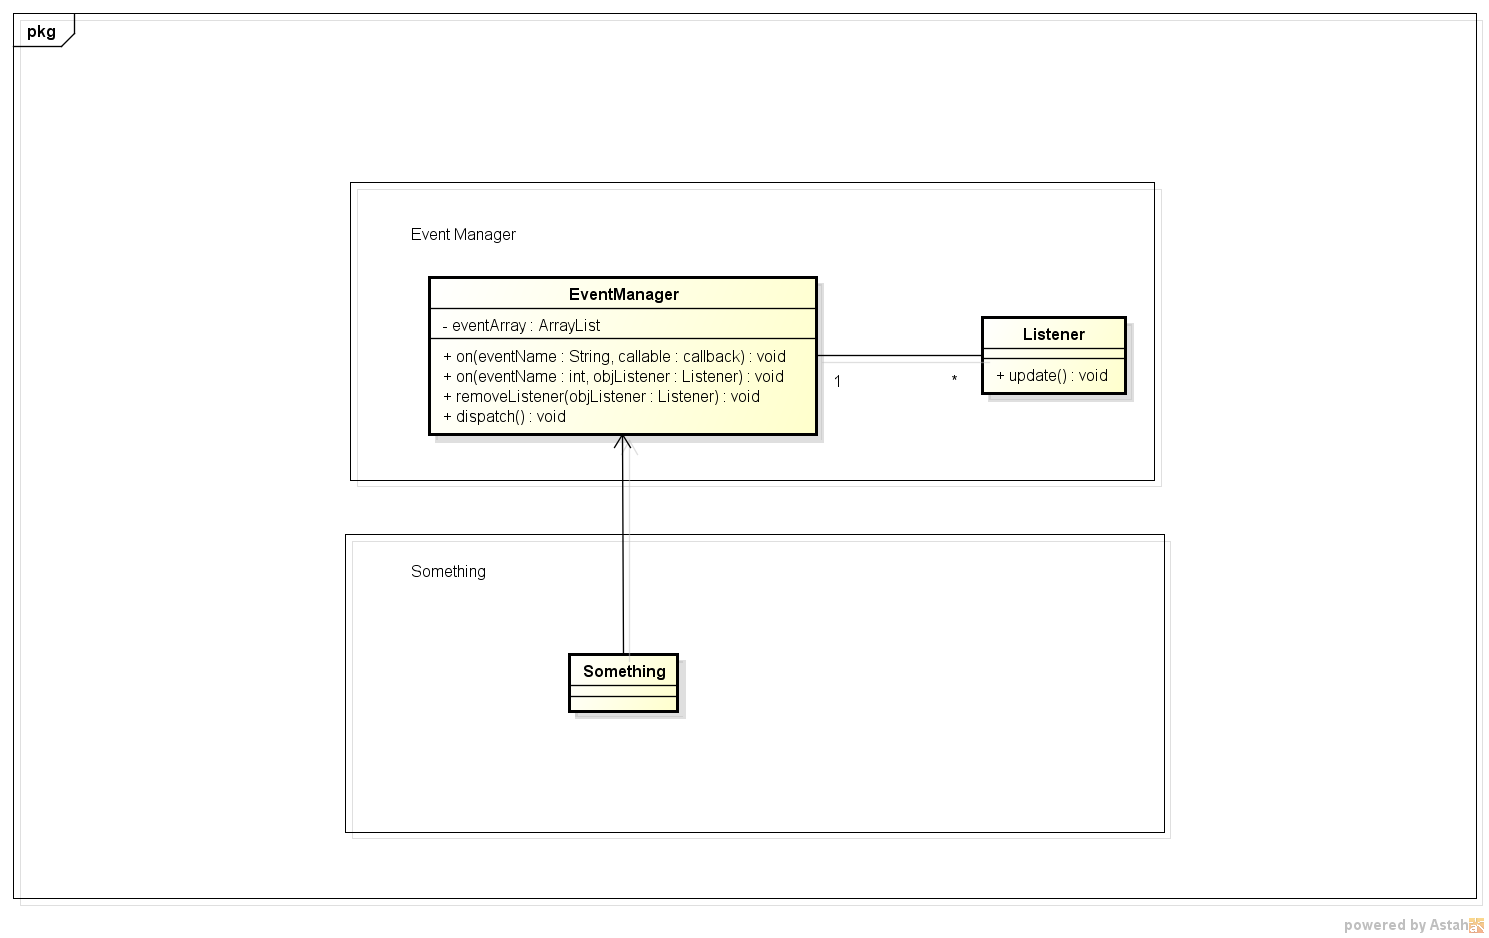
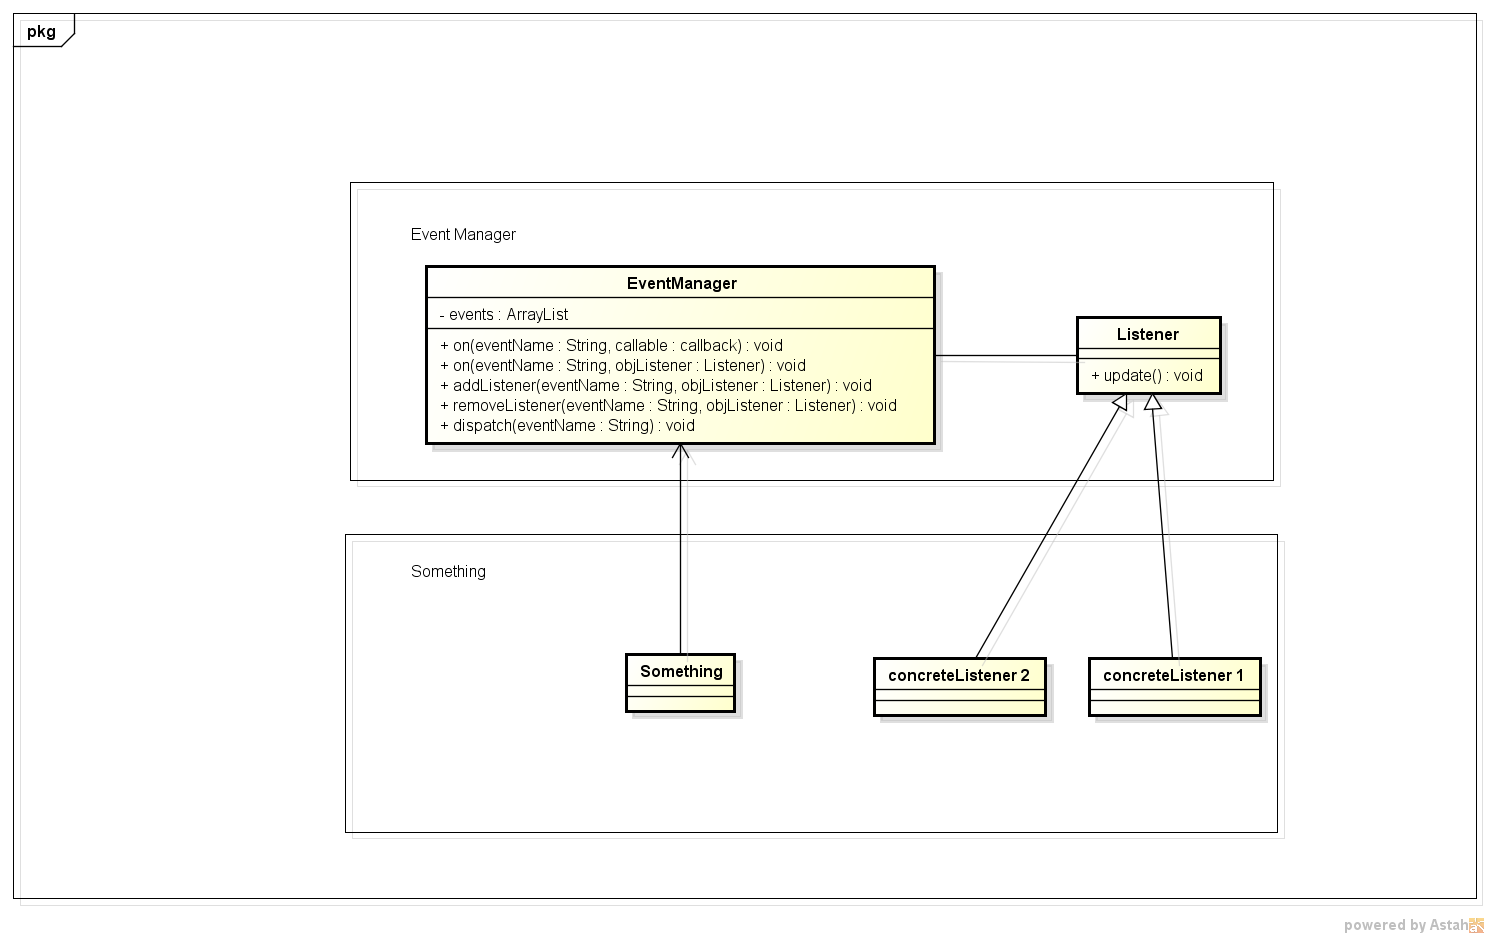
Criando estrutura basica com interfaces e mudando a doc

diff --git a/src/App/EventManager.php b/src/App/EventManager.php
@@ -1,0 +1,65 @@
+<?php
+
+namespace App;
+
+use App\Interfaces\Event;
+use App\Interfaces\Manager;
+use App\Interfaces\Listener;
+
+class EventManager implements Event, Manager
+{    
+    /*
+     * This is the events array
+     * @var array
+     */
+    private $events;
+    
+    /**
+     * Construct
+     */
+    public function __construct()
+    {
+        $events = array();
+    }
+    
+    /**
+     * Add Listener to Event Name
+     * @param string $eventName
+     * @param \App\Interfaces\Listener $listener
+     */
+    private function addListener($eventName, Listener $listener)
+    {    
+       
+    }
+    
+    /**
+     * Remove Listener from Event Name
+     * @param string $eventName
+     * @param \App\Interfaces\Listener $listener
+     */
+    private function removeListener($eventName, Listener $listener)
+    {    
+       
+    }
+    
+    /**
+     * Add a callable or listener to a new or existent event name
+     * @param string $eventName
+     * @param Listener|function $action
+     */
+    public function on($eventName, $action)
+    {
+        
+    }
+    
+    /**
+     * Dispatch event
+     * @param string $eventName
+     */
+    public function dispatch($eventName)
+    {
+        
+    }
+    
+}
+

diff --git a/src/App/Interfaces/Manager.php b/src/App/Interfaces/Manager.php
@@ -1,0 +1,21 @@
+<?php
+
+namespace App\Interfaces;
+
+interface Manager
+{
+    /**
+     * Do the dispatch of a specific event
+     * @param string $eventName
+     */
+    public function dispatch($eventName);
+    
+    /**
+     * Add action (Listener or callable) on a event name
+     * @param string $eventName
+     * @param Listener|function $action
+     */
+    public function on($eventName, $action);
+    
+}
+

diff --git a/src/App/Interfaces/Event.php b/src/App/Interfaces/Event.php
@@ -1,0 +1,19 @@
+<?php
+
+namespace App\Interfaces;
+
+interface Event 
+{    
+    /**
+     * Add Listener to Event
+     * @param \App\Interfaces\Listener $listener
+     */
+    public function addListener(Listener $listener);
+    
+    /**
+     * Remove Listener from Event
+     * @param \App\Interfaces\Listener $listener
+     */
+    public function removeListener(Listener $listener);
+    
+}

diff --git a/src/App/Interfaces/Listener.php b/src/App/Interfaces/Listener.php
@@ -1,0 +1,13 @@
+<?php
+
+namespace App;
+
+use App\Interfaces\Listener as ListenerInterface;
+
+class Listener implements ListenerInterface
+{
+    
+    abstract function update();
+    
+}
+
